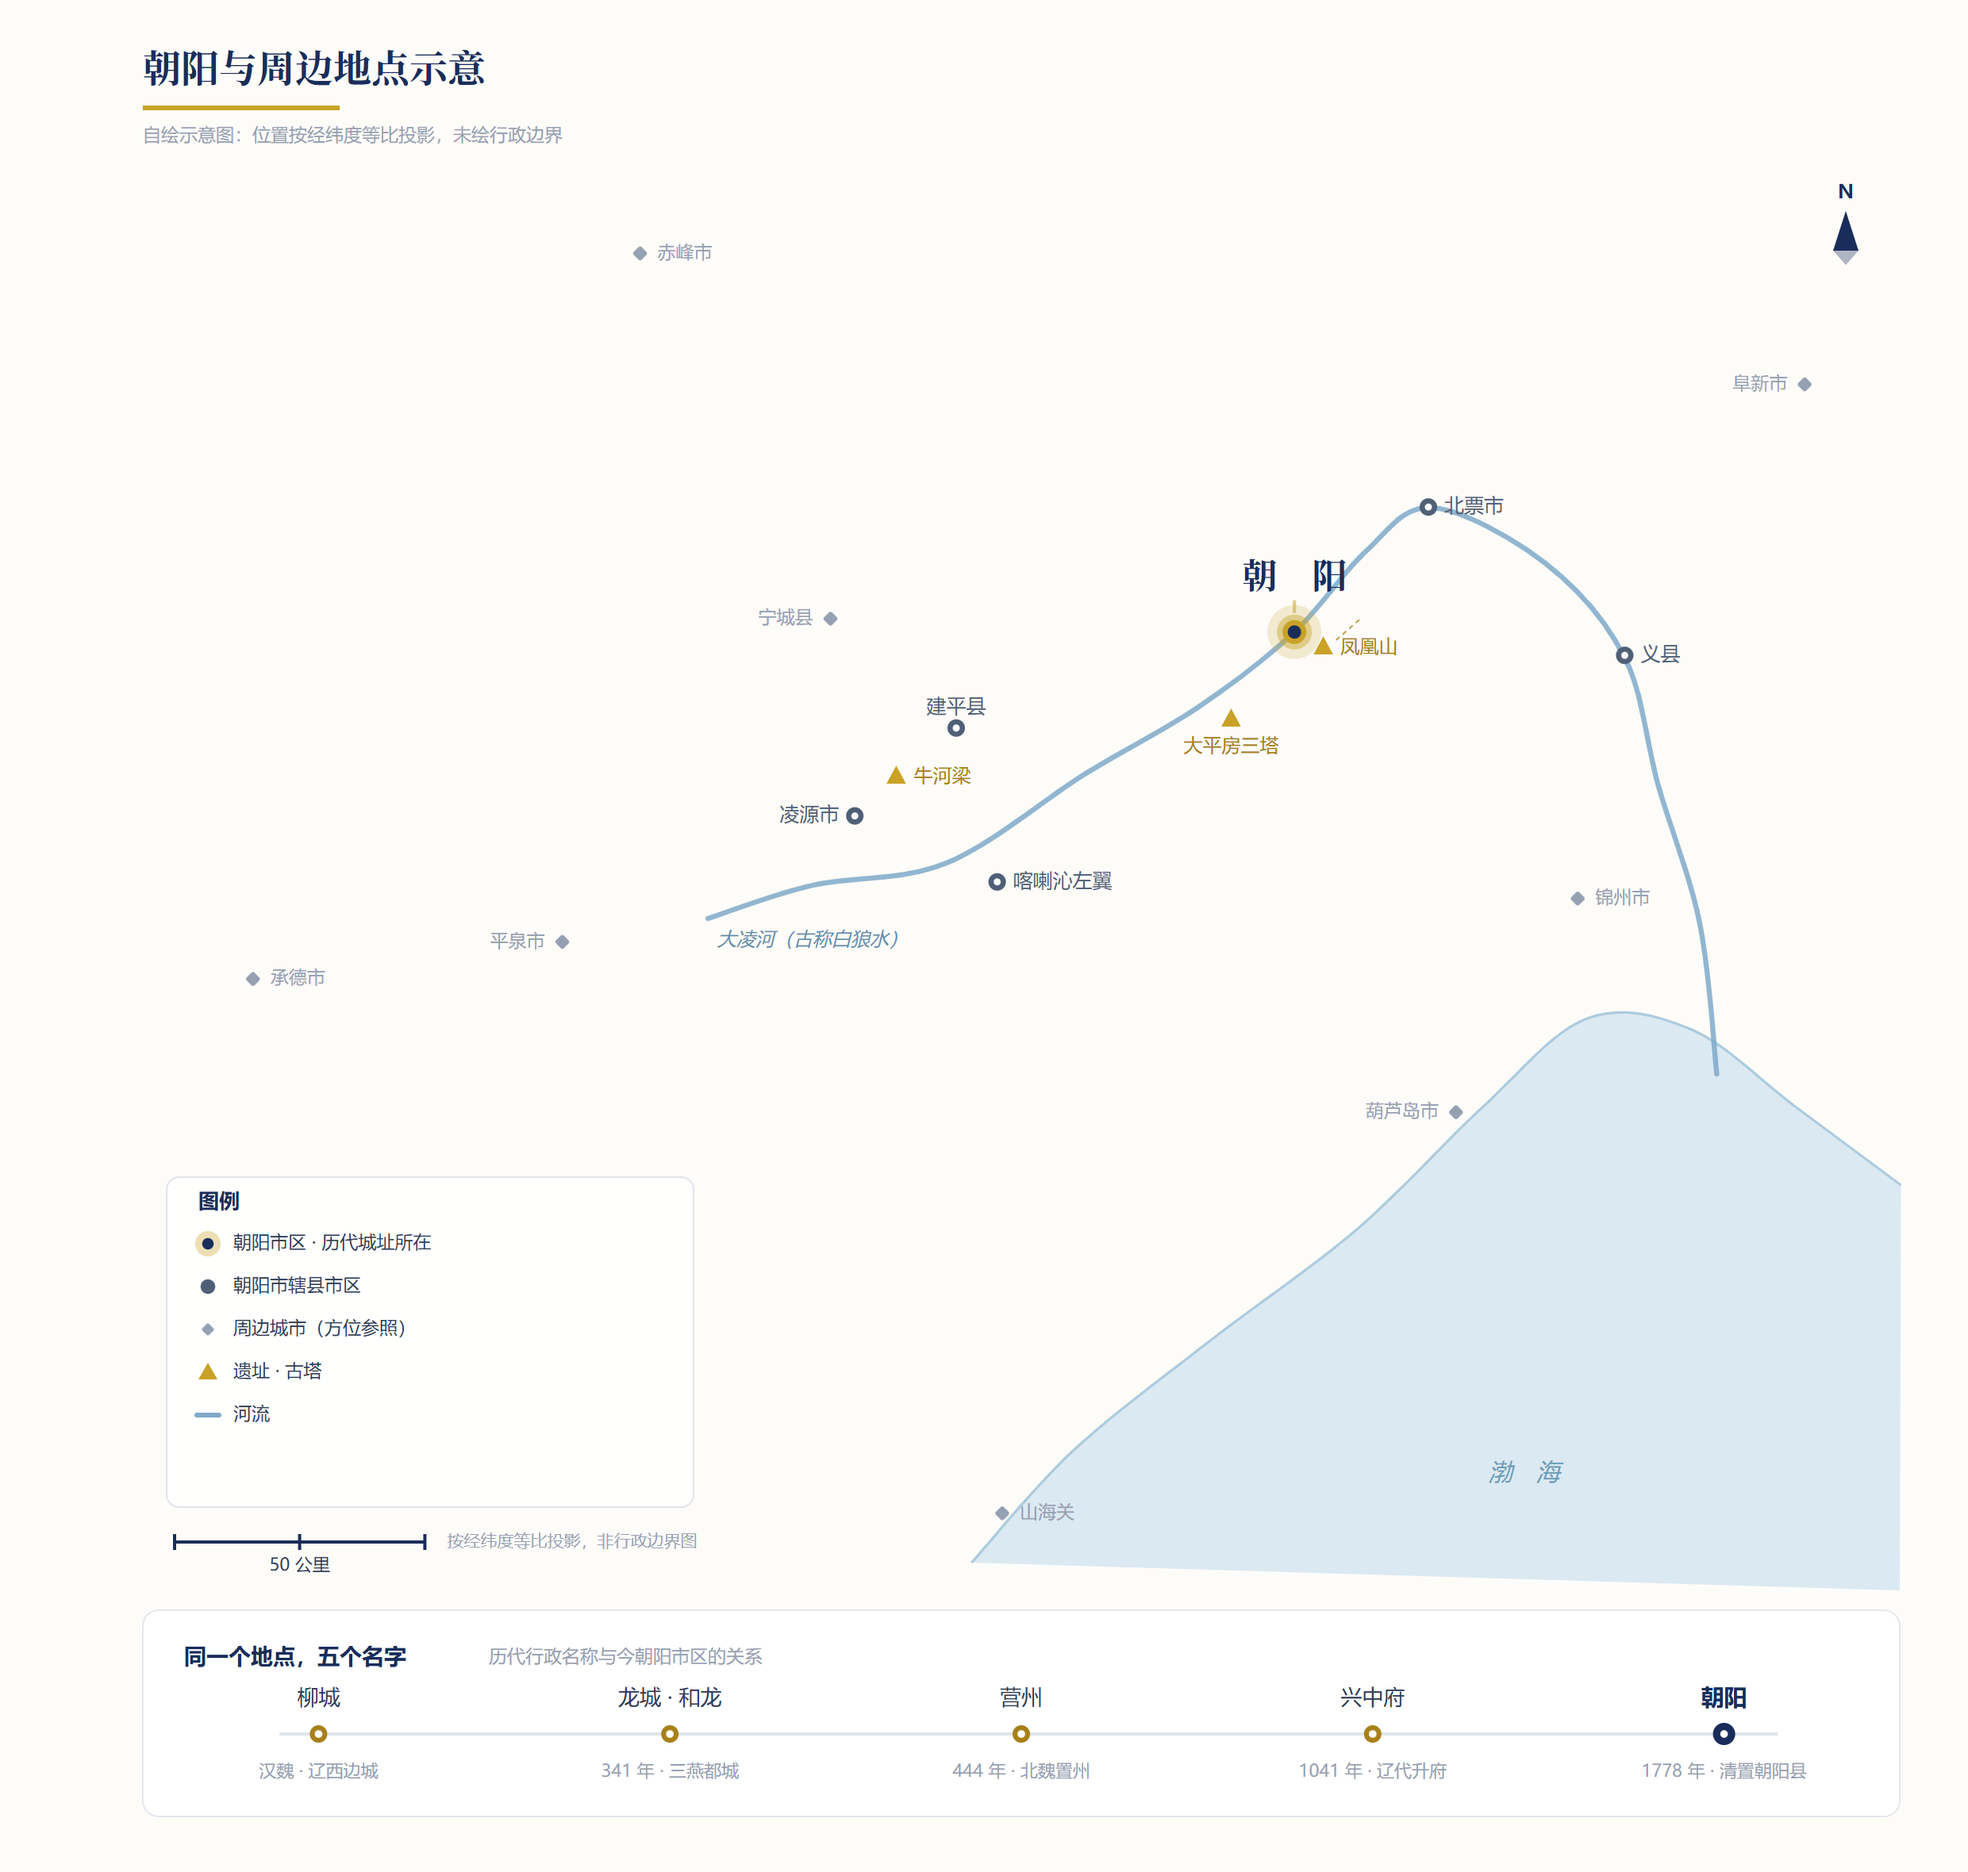
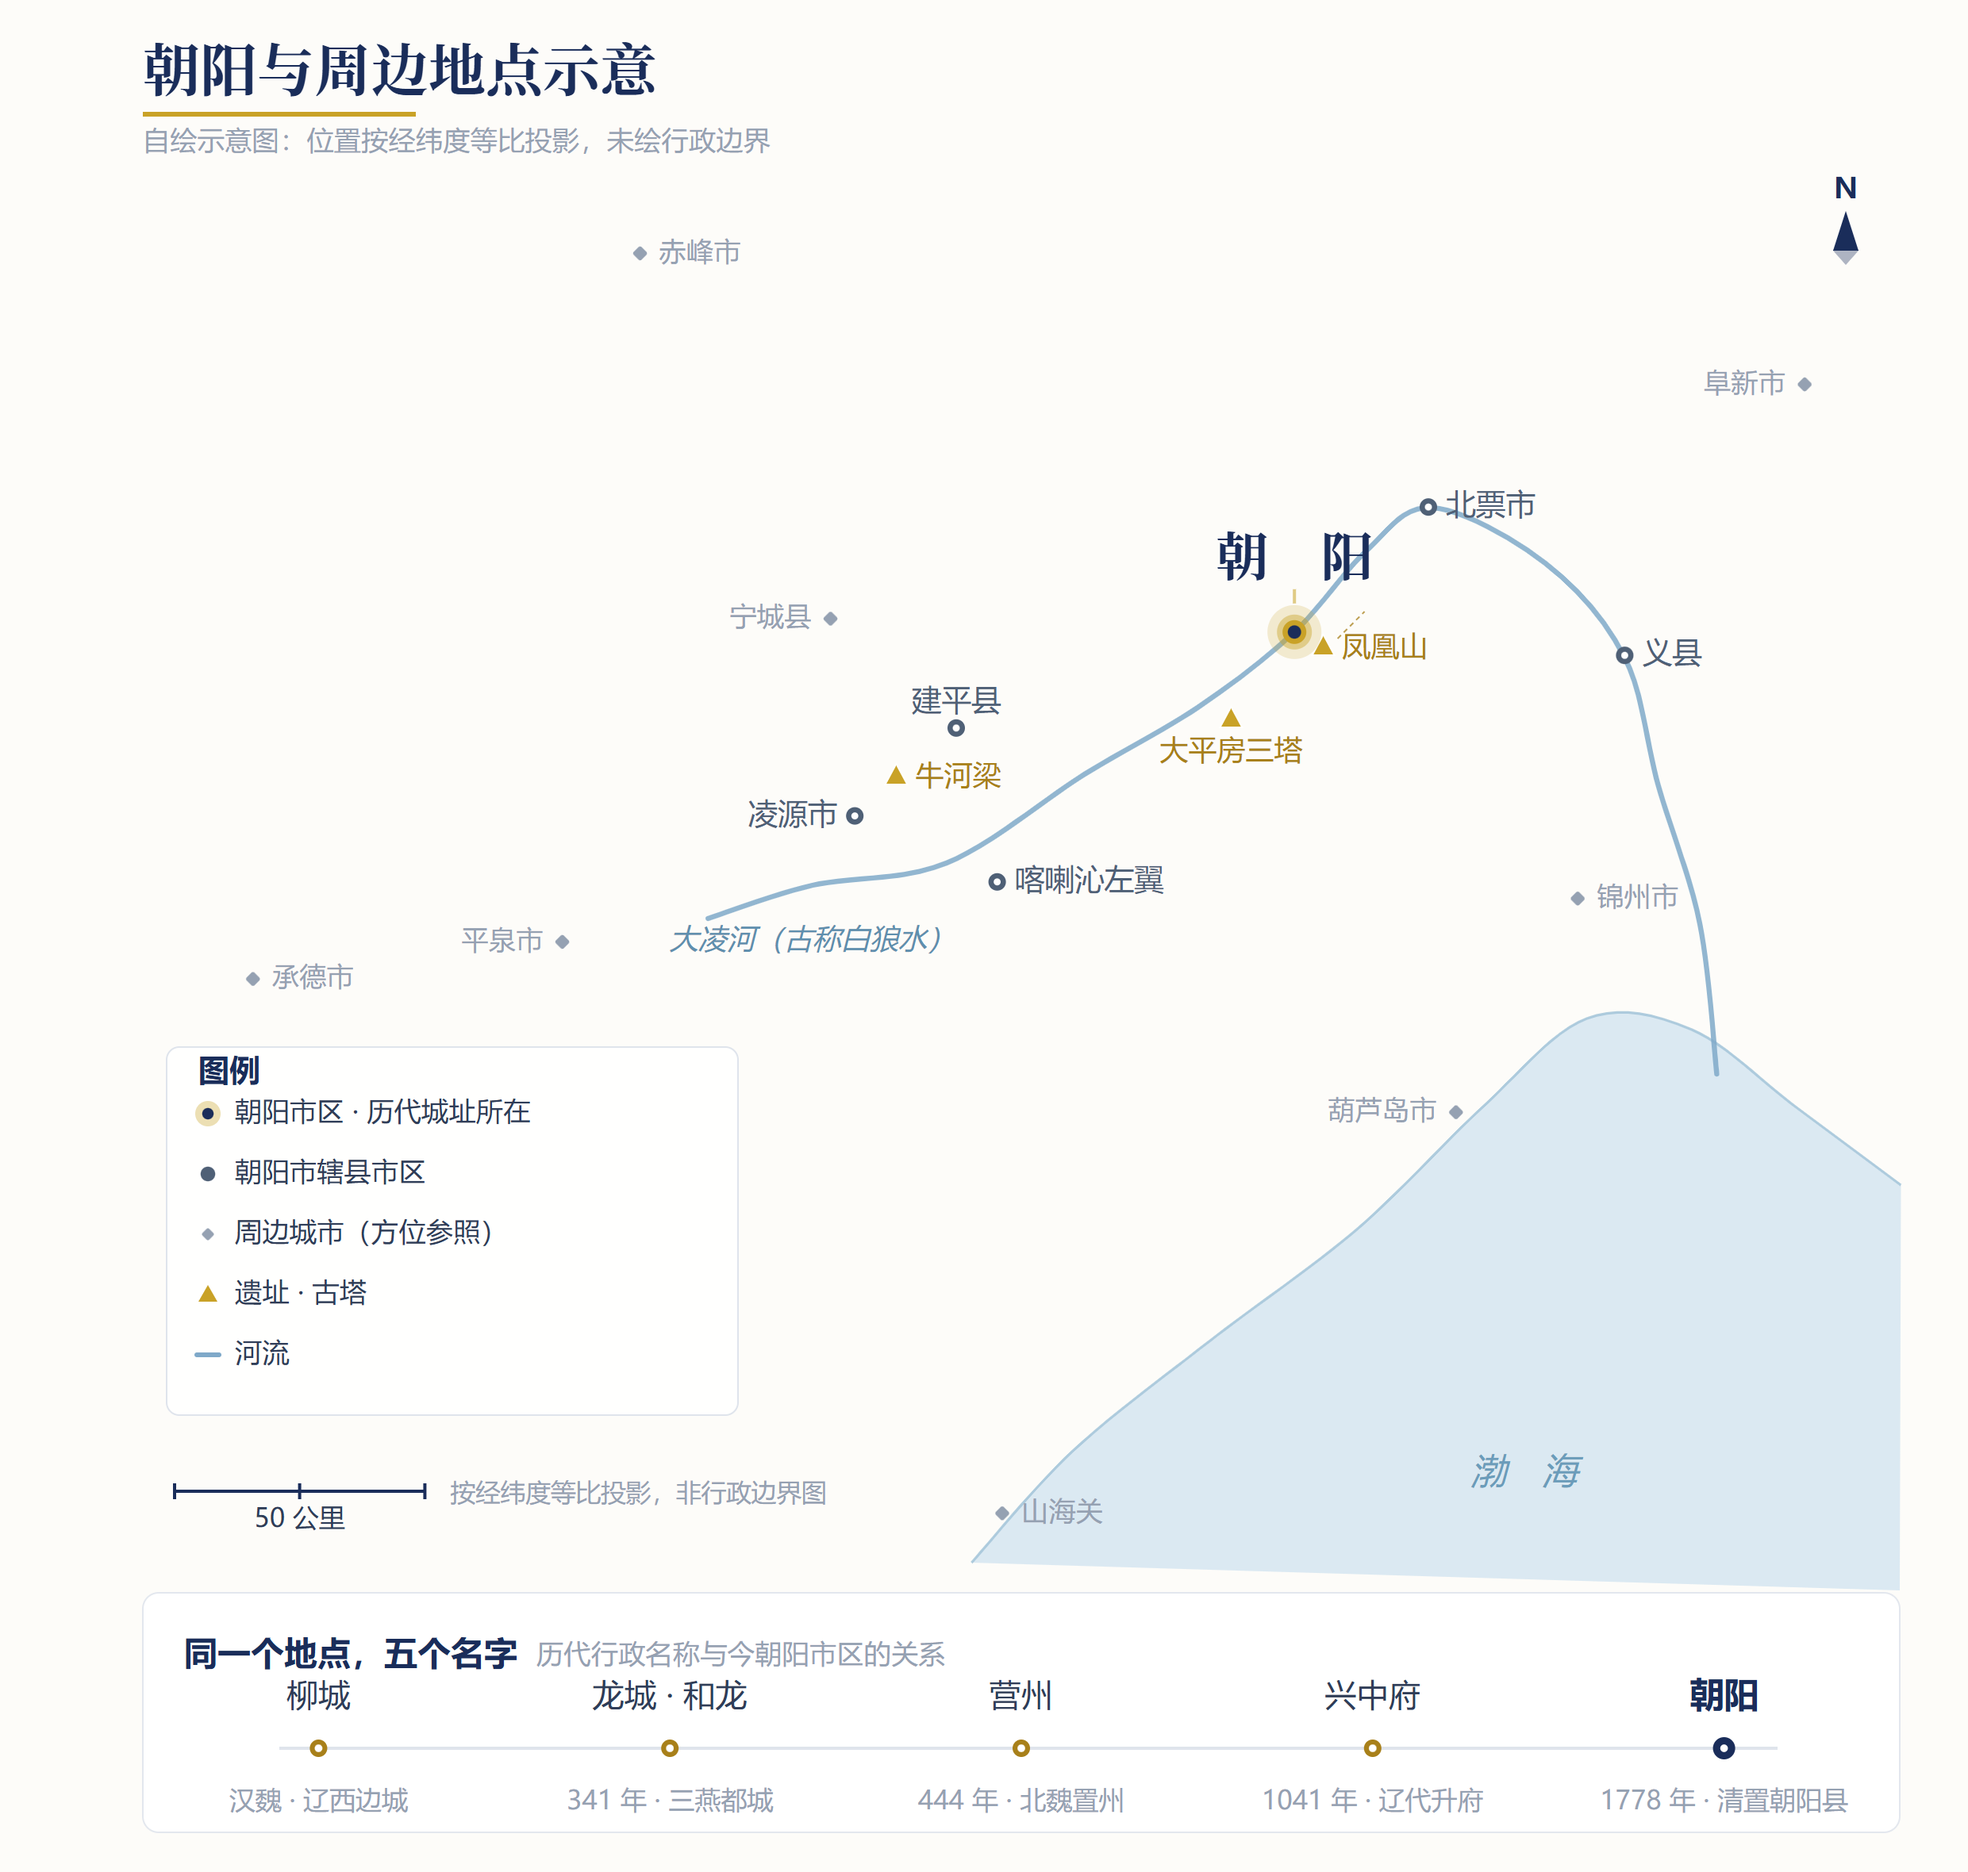
简读朝阳：首页配图按站内惯例固定宽度 620px，图内字号放大 1.5 倍
起因：首页用的是裸 Markdown 图片，GitBook 下按版心满宽渲染（本地预览实测 786px，
视口更宽时更甚），而站内其它三册（呼市 420 / 拉萨 563 / 伦敦 720）都用
<figure><img width> 显式控宽——本册是唯一的例外。

改动：
- README 首页改为 <figure><img src=… width="620"><figcaption>…</figcaption></figure>，
  原独立成行的斜体图注折进 figcaption，内容不变，与站内其它册体例一致。
- 同步重绘图：图内字号整体 ×1.5（最小标注 11.5 → 17.25）。620px 显示时约 8.6px，
  与原先撑满版心（786px）时的 8.1px 相当，做到缩宽不缩字。
- 随字号放大重排相关元件：图例框 660..892（行距 27→38）、比例尺 y=940、
  时间轴条 1004..1155 及其三行基线、"朝阳"标注由 ay-33 上移至 ay-44。
- 新旧 SVG 比对：42 条文字内容完全一致，circle/path/rect/text 数量一致（27/18/12/42），
  仅坐标与字号变化；PNG 219KB → 290KB。

页数不变：A4 每篇新页起排 26 页 / 连续排版 24 页。

diff --git a/understanding/chaoyang/markdown/README.md b/understanding/chaoyang/markdown/README.md
@@ -4,9 +4,7 @@ description: 沿大凌河，读懂三燕古都与辽塔圣地。
 
 # 简读朝阳
 
-![朝阳与周边地点示意图：以朝阳市区为中心，北接内蒙古赤峰，西邻宁城、平泉与河北承德，东连阜新、义县、北票，南经锦州、葫芦岛、山海关临渤海；大凌河自西南向东北流经朝阳后折向东南入海；图下为同一个地点的五个名字——柳城、龙城·和龙、营州、兴中府、朝阳](assets/chaoyang-map.png)
-
-*图中朝阳市区即历代柳城、龙城（和龙）、营州、兴中府所在；周边城市仅作方位参照。*
+<figure><img src="assets/chaoyang-map.png" alt="朝阳与周边地点示意图：以朝阳市区为中心，北接内蒙古赤峰，西邻宁城、平泉与河北承德，东连阜新、义县、北票，南经锦州、葫芦岛、山海关临渤海；大凌河自西南向东北流经朝阳后折向东南入海；图下为同一个地点的五个名字——柳城、龙城·和龙、营州、兴中府、朝阳" width="620"><figcaption><p>图中朝阳市区即历代柳城、龙城（和龙）、营州、兴中府所在；周边城市仅作方位参照。</p></figcaption></figure>
 
 朝阳最硬的两张名片，是**三燕古都**和**辽塔圣地**。
 
